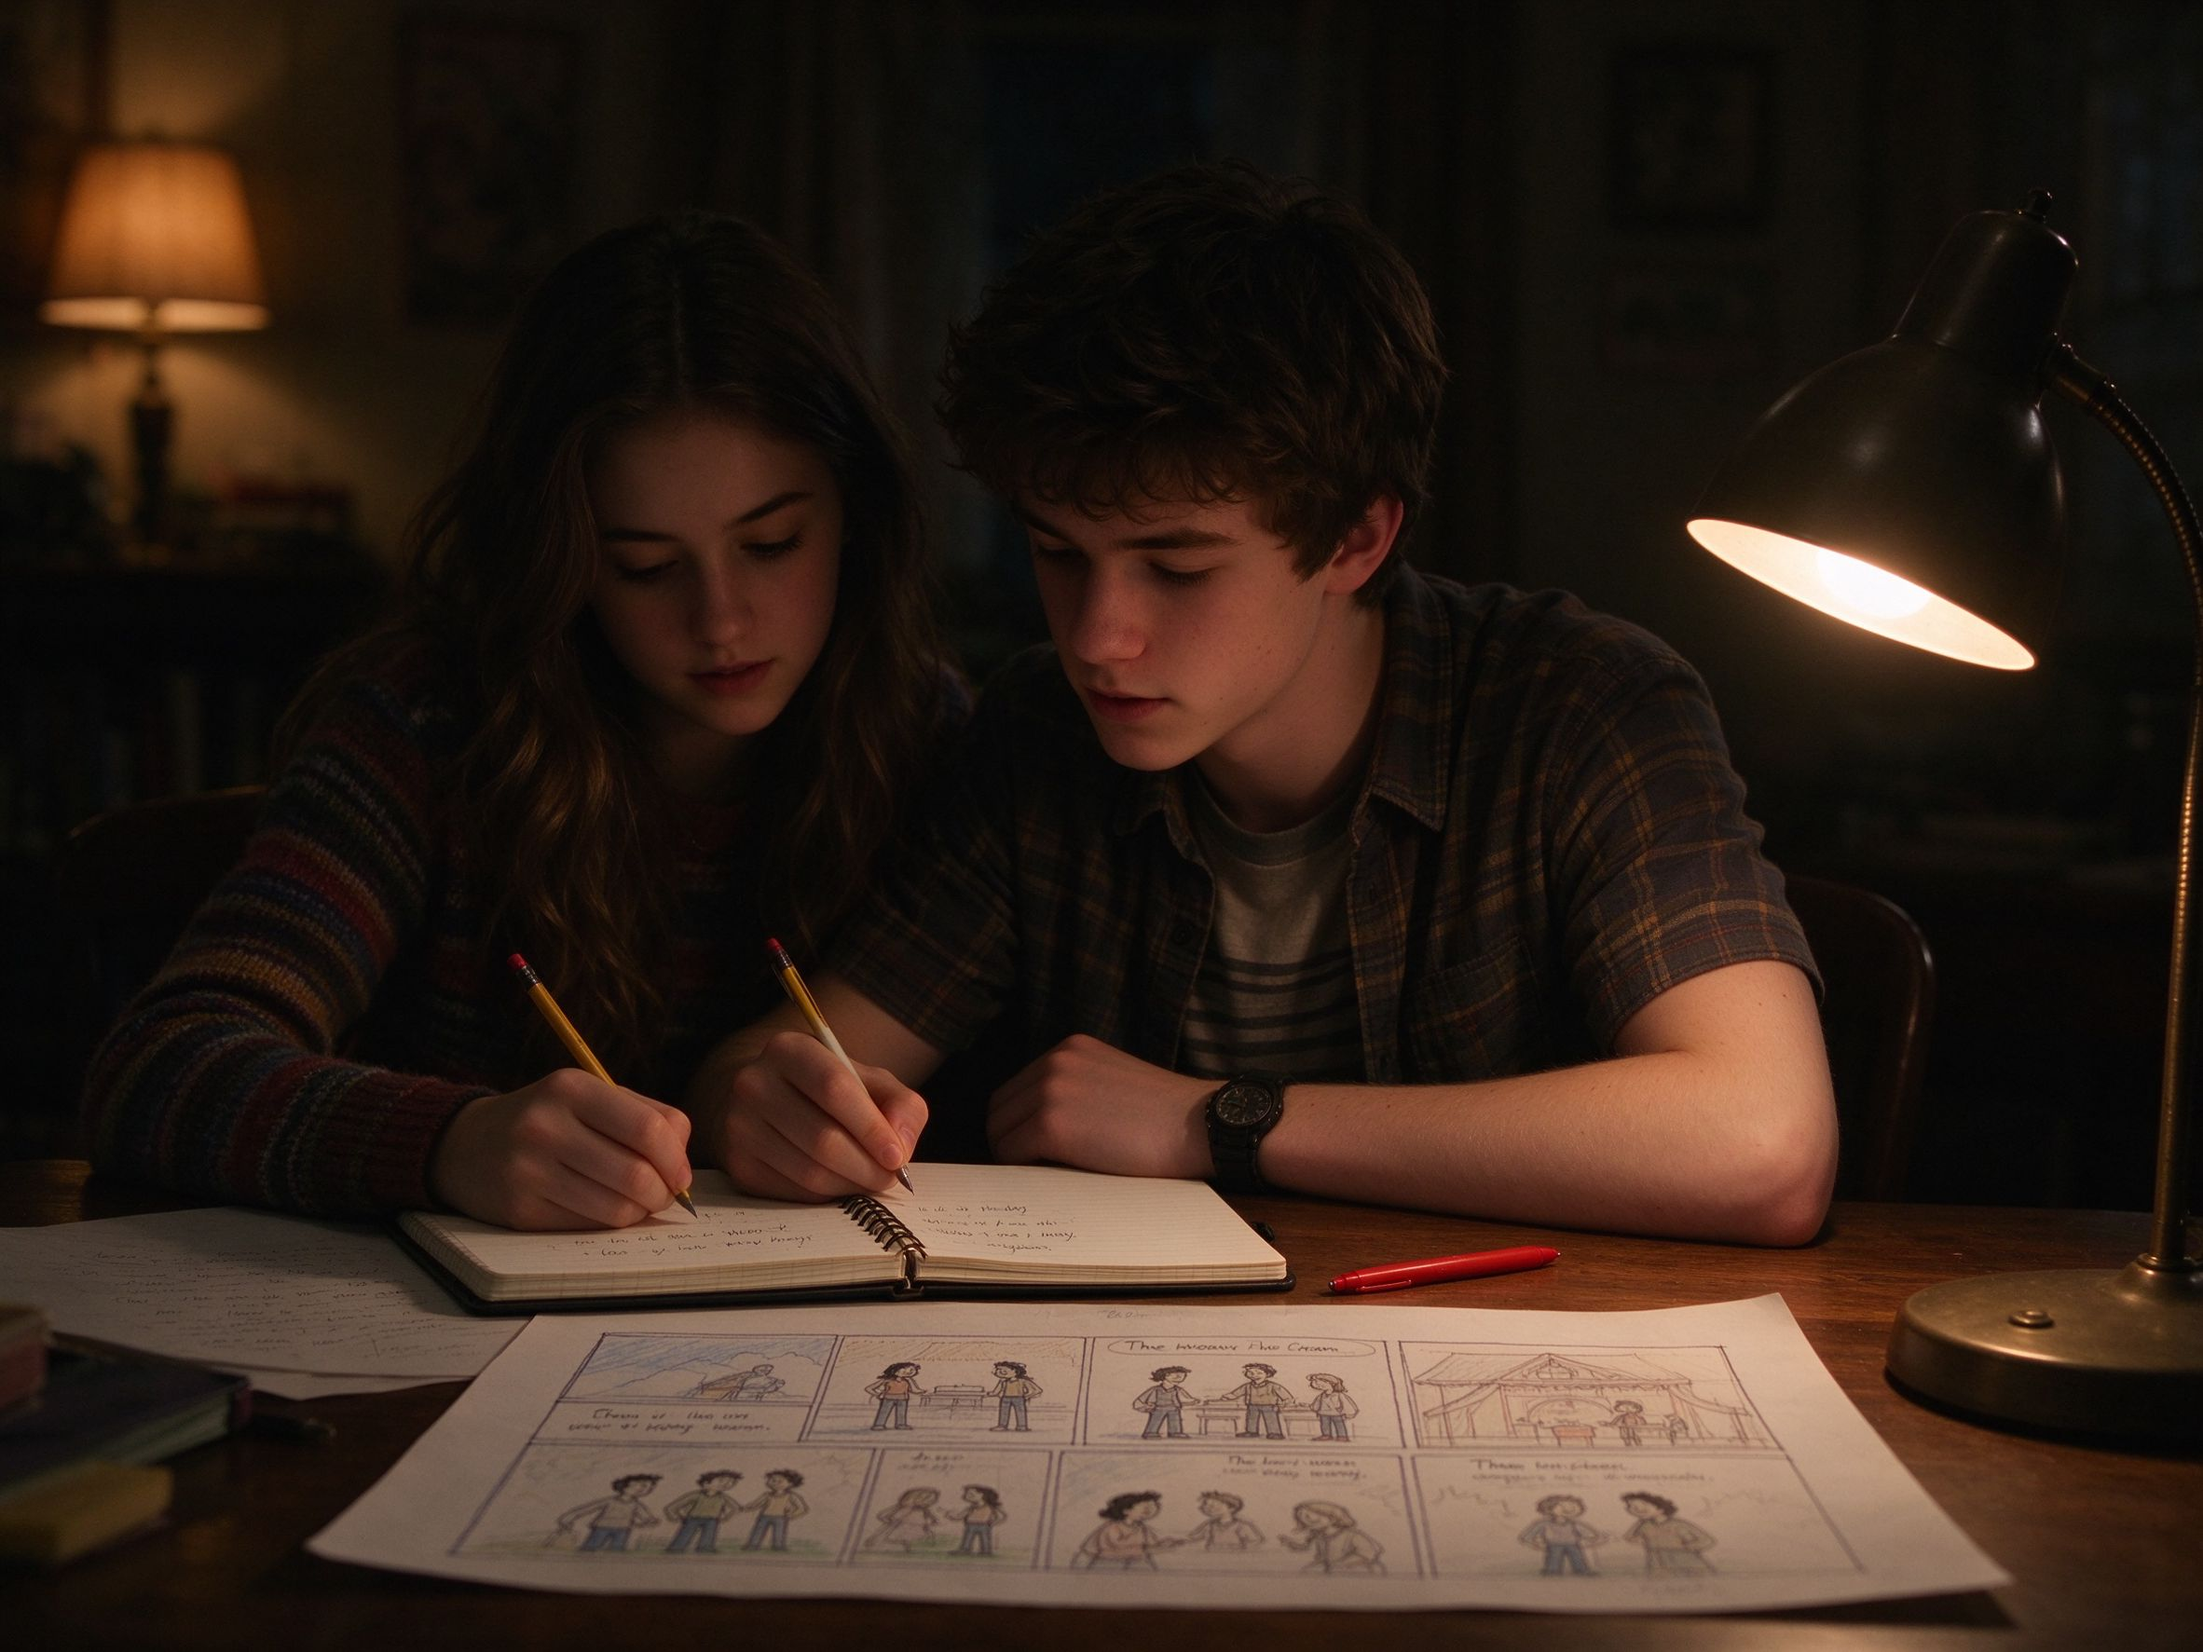
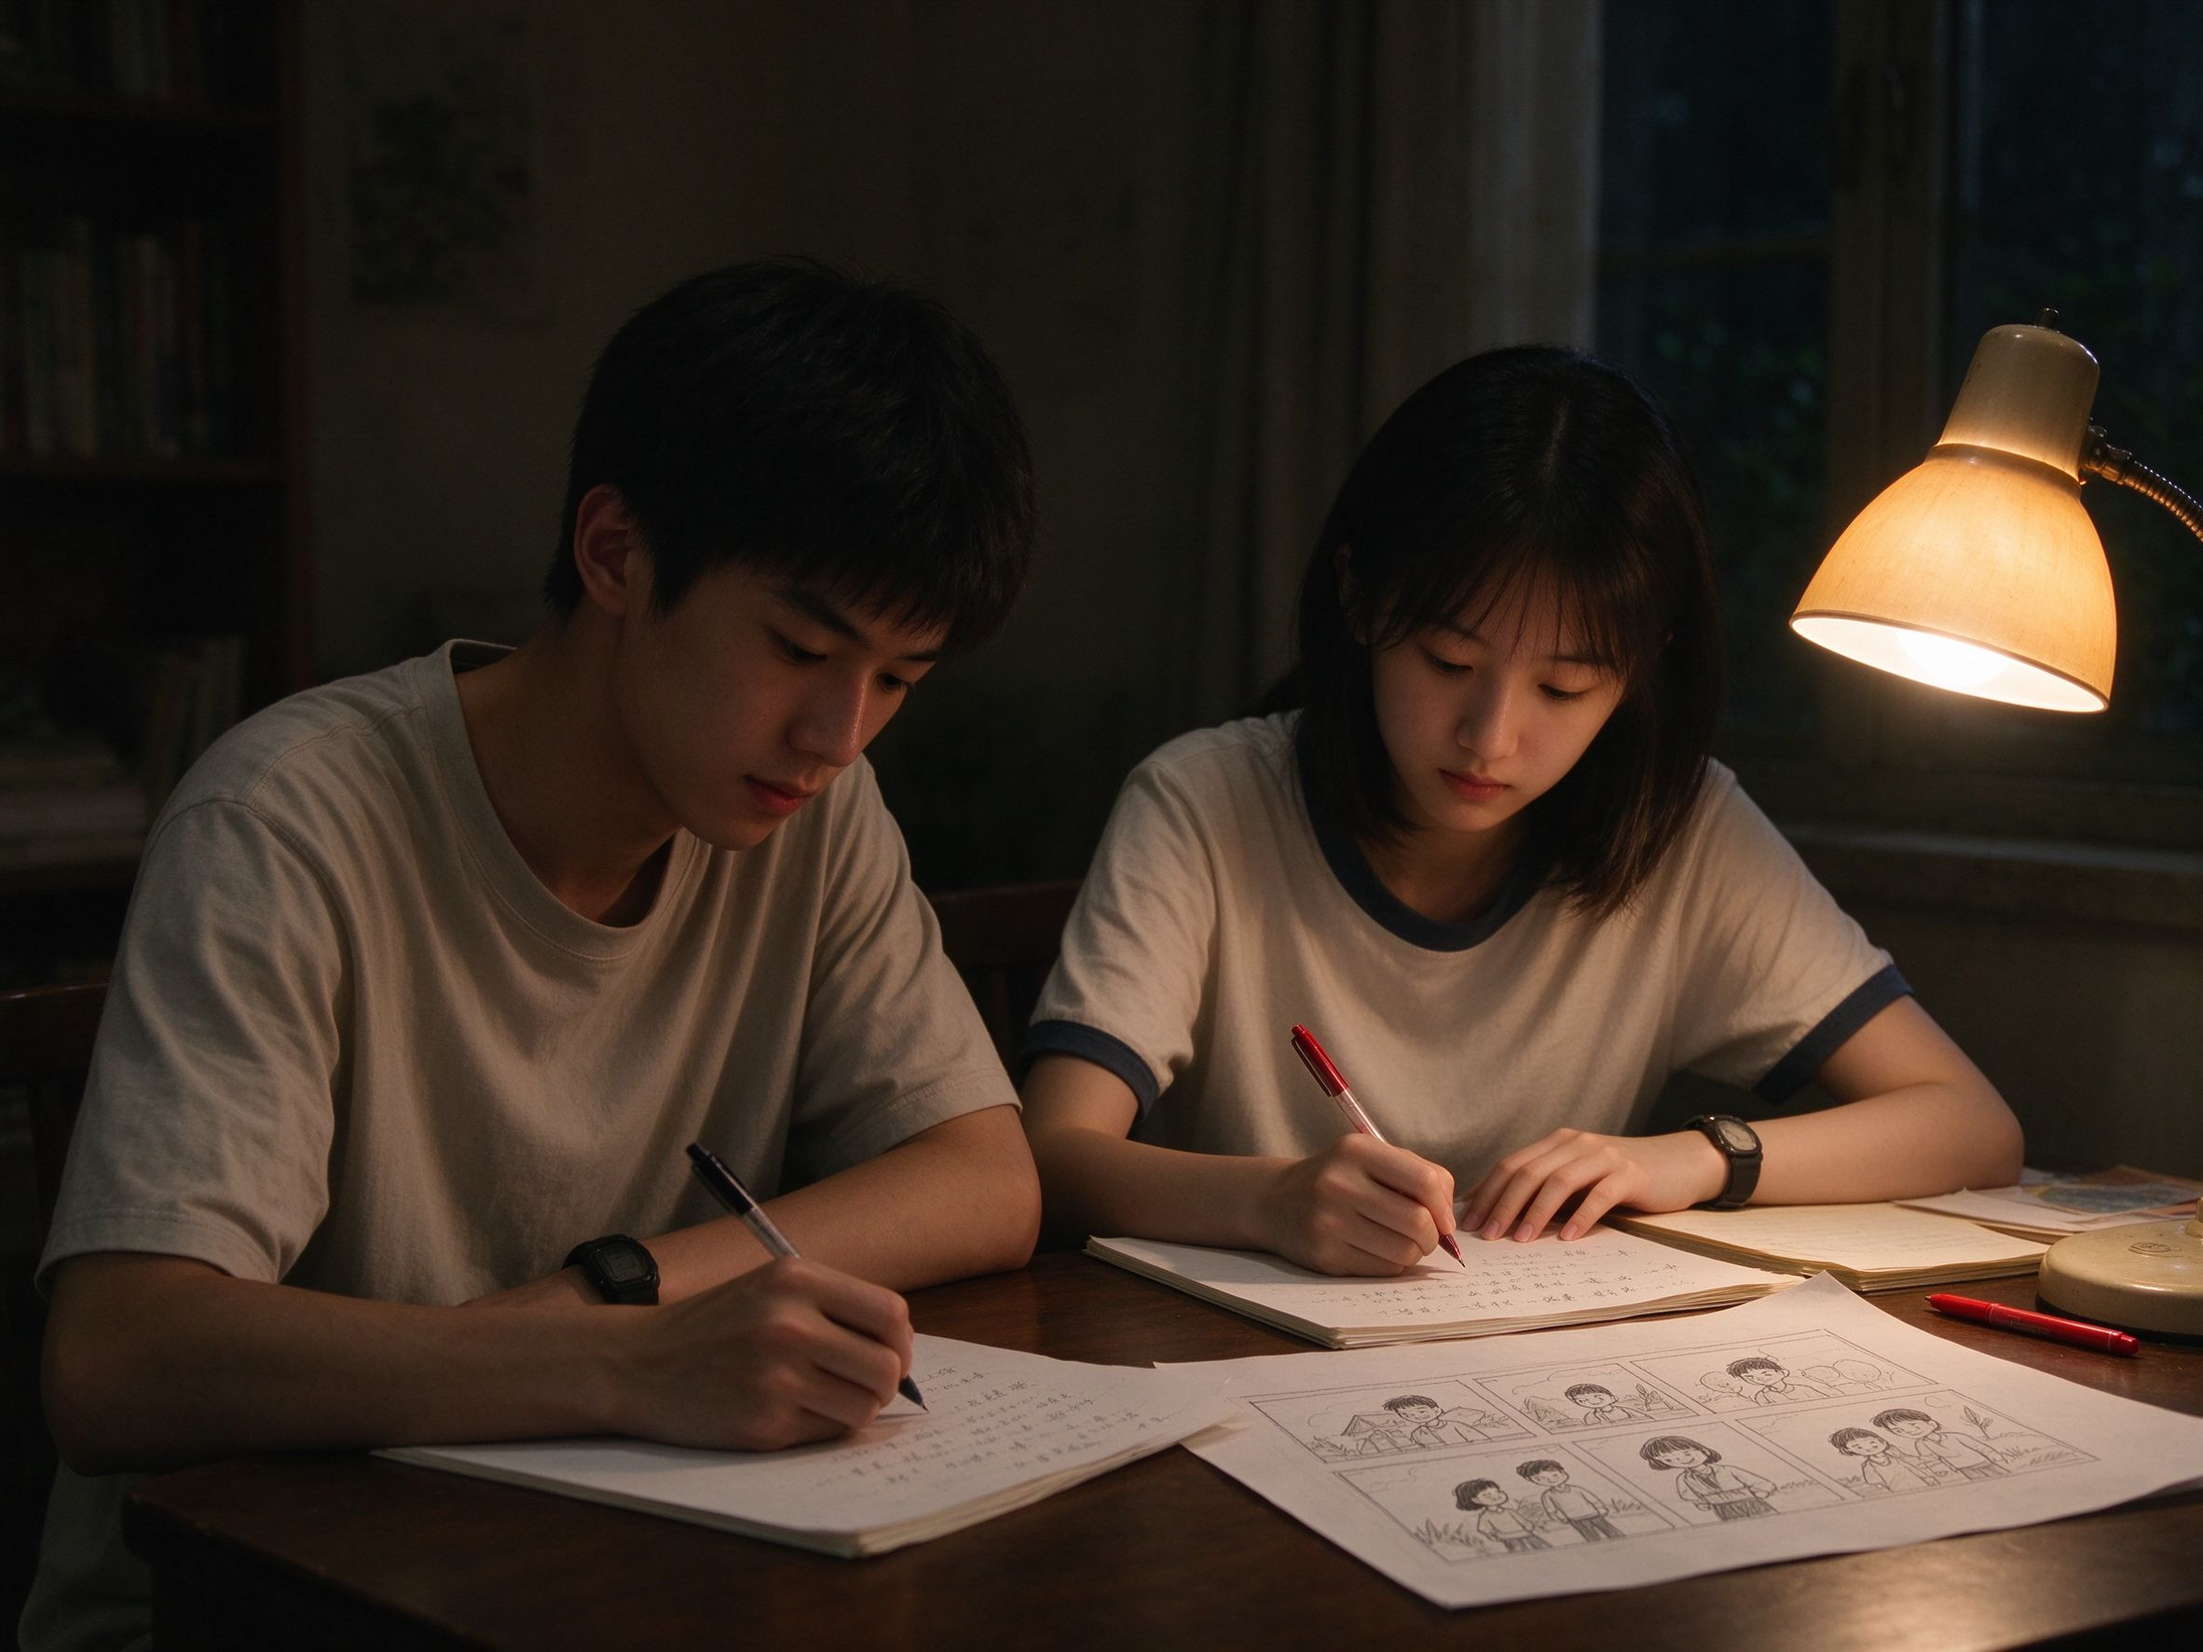
fix: 工作流图换成中国人 + 补第8个分镜镜头

diff --git a/src/data/liaoyunCaseUi.ts b/src/data/liaoyunCaseUi.ts
@@ -20,4 +20,5 @@ export const LIAOYUN_SHOTS: LiaoyunShot[] = [
   { id:'05', title:'旧图形，新观看', image:'/liaoyun-assets/shot05.jpg', description:'年轻人在窗边举起剪纸，纸影落在墙面与人物附近。', shotSize:'中近景', composition:'三分法', camera:'移', light:'窗光', duration:'7 秒', tags:['中近景','移','三分法'], imagePrompt:'年轻创作者站在窗边举起红色剪纸，自然窗光穿过镂空形成纸影，人物与传统图形处于同一画面，现代服饰，安静观察，写实电影风格。', videoPrompt:'中近景轻微横移，年轻人缓慢举起剪纸对向窗光，纸影逐渐落到墙面与脸侧，动作简单，7秒，克制纪录片质感。' },
   { id:'06', title:'让纸活起来', image:'/liaoyun-assets/shot06.jpg', description:'纸面原创人物轮廓被点状地轻动，与现实窗外山影叠化。', shotSize:'近景', composition:'中心构图', camera:'固定', light:'柔光', duration:'6 秒', tags:['近景','固定','中心构图'], imagePrompt:'红色剪纸纹样近景，少量纸面线条像呼吸一样产生轻微位移，与窗外山影叠化，保持纸张结构真实，不怪物化、不玄幻化，东方诗意数字艺术。', videoPrompt:'固定近景，只有少量线条缓慢延伸与轻微位移，纸面结构始终稳定，与窗外山影完成一次柔和叠化，6秒，克制数字化效果。' },
   { id:'07', title:'重新记录', image:'/liaoyun-assets/shot07.jpg', description:'镜头拉远，年轻人走向山间，手中拿着剪纸作品。', shotSize:'远景', composition:'跟随构图', camera:'移', light:'落日光', duration:'7 秒', tags:['远景','移','跟随构图'], imagePrompt:'落日山林远景，一名当代年轻人背影向前行走，手里拿着红色剪纸作品，传统与当下在同一画面中交汇，真实山林，现代服饰，电影质感。', videoPrompt:'远景缓慢跟随年轻人向前走，手中的剪纸随步伐轻微晃动，落日山林保持稳定，7秒，节奏舒缓，作为段落收束。' },
+  { id:'08', title:'一剪见闾山', image:'/liaoyun-assets/shot08.jpg', description:'红色剪纸悬在窗前，镂空中可见山林与天空，青年站在远处归于平静。', shotSize:'全景', composition:'框架构图', camera:'拉', light:'黄昏光', duration:'9 秒', tags:['全景','拉','框架构图'], imagePrompt:'红色剪纸悬在窗前作为前景框架，镂空中可见远处山林与天空，一个年轻中国男性背影站在远处窗前，画面平静，黄昏暖光，电影质感，东方诗意。', videoPrompt:'缓慢拉远镜头，红色剪纸轻轻摆动后停住，镂空中的山林与天空逐渐清晰，青年背影安静站立，9秒，画面归于平静，作为结尾。' },
 ];
